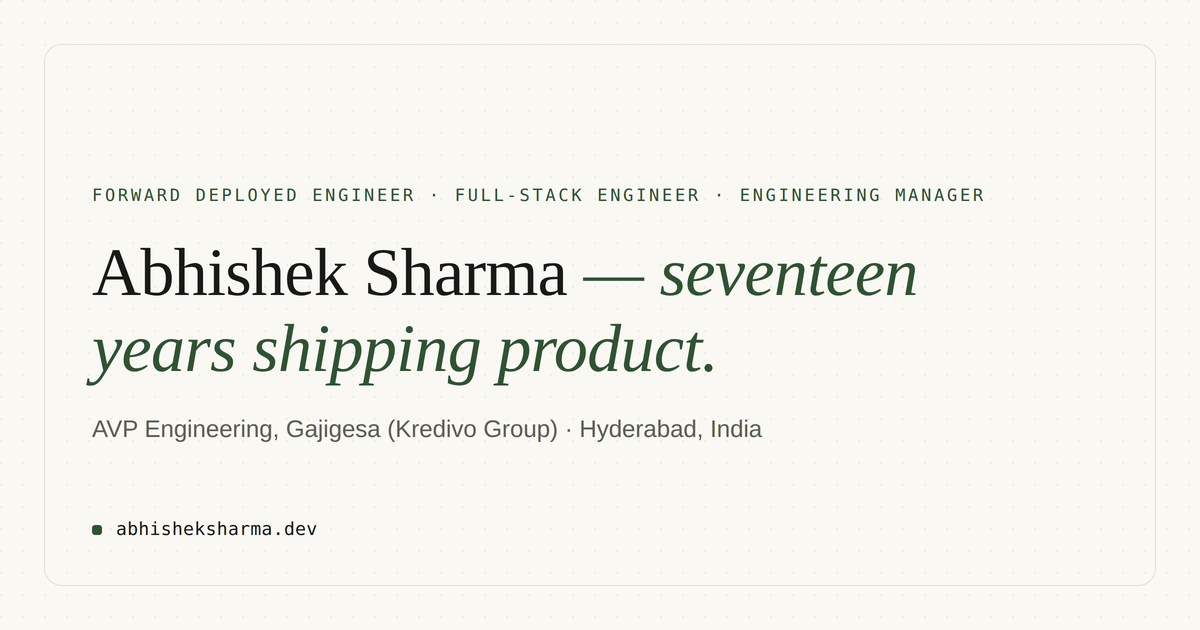
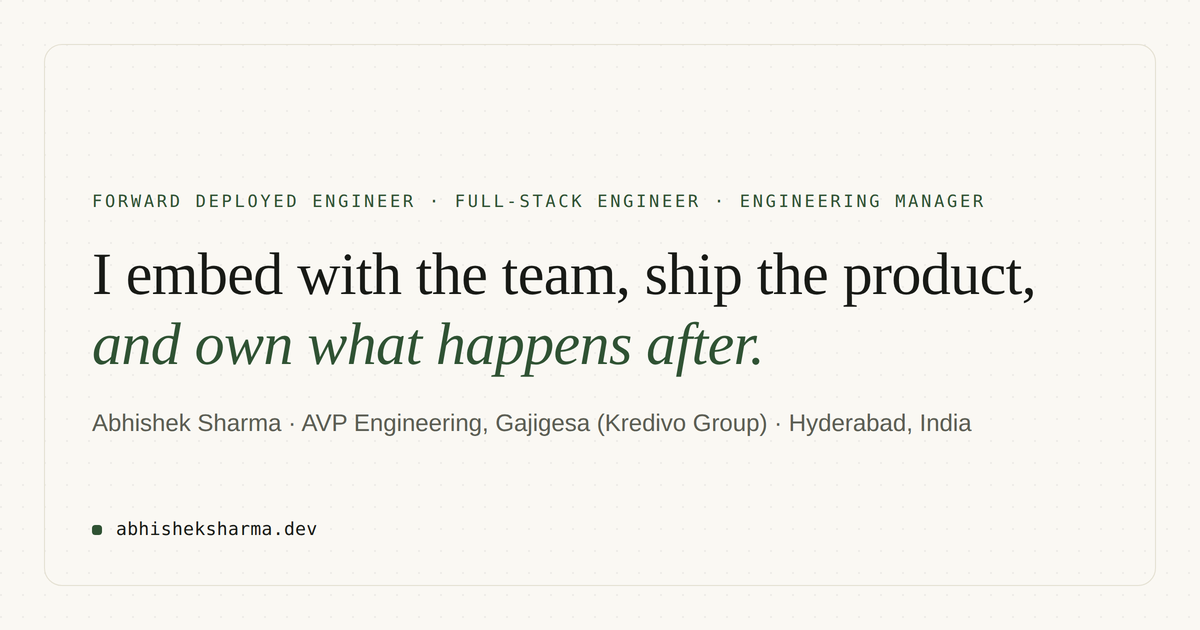
Lead with forward-deployed positioning, drop years-based framing
Replaces the hero's "17+ years" stat and 2008-2025 stack-evolution
timeline with a client-roster band (Gajigesa, KFC, Kohl's, Tractor
Supply, Wallenius Wilhelmsen, HUL) that gives concrete evidence for the
forward-deployed-engineer story instead of leaning on tenure. Rewrites
the hero paragraph and Experience intro to match, and updates the SEO
description and OG image to drop the "seventeen years" phrasing.

diff --git a/lib/content.js b/lib/content.js
@@ -12,7 +12,7 @@ export const site = {
   linkedin: "https://www.linkedin.com/in/abhishekmca",
   github: "https://github.com/abhishek1504",
   description:
-    "Abhishek Sharma is a Hyderabad-based engineering leader with 17+ years shipping production software for KFC, Kohl's, Tractor Supply, and Gajigesa (Kredivo Group). Forward deployed engineer, full-stack developer, and AVP of Engineering specializing in fintech, mobile, and applied AI.",
+    "Abhishek Sharma is a Hyderabad-based Forward Deployed Engineer, Full-Stack Engineer, and Engineering Manager — embedded inside client engineering teams at KFC, Kohl's, Tractor Supply, and Wallenius Wilhelmsen, now leading engineering at Gajigesa (Kredivo Group). Specializing in fintech, mobile, and applied AI.",
   keywords: [
     "Abhishek Sharma",
     "Forward Deployed Engineer",
@@ -36,10 +36,10 @@ export const site = {
 };
 
 export const stats = [
-  { num: "17+", label: "Years building & shipping software" },
-  { num: "8", label: "Enterprise brands shipped to production" },
+  { num: "6", label: "Client engineering teams I've embedded with" },
   { num: "25K", label: "Monthly active users on my current platform" },
   { num: "99.5%", label: "Crash-free sessions, sustained" },
+  { num: "0.9", label: "Apdex score achieved" },
 ];
 
 export const pillars = [
@@ -60,14 +60,15 @@ export const pillars = [
   },
 ];
 
-export const evolution = [
-  { year: "2008", tech: "Delphi & Firebird" },
-  { year: "2011", tech: "iOS · Delphi Prism" },
-  { year: "2013", tech: "Objective-C → Titanium" },
-  { year: "2016", tech: "Kotlin · Native Android" },
-  { year: "2018", tech: "React · React Native" },
-  { year: "2022", tech: "Node.js · AWS · CI/CD" },
-  { year: "2025", tech: "Generative & Agentic AI" },
+// Client organizations I've been embedded inside of — the concrete evidence
+// for the "forward deployed engineer" positioning in the hero.
+export const embeddedWith = [
+  { name: "Gajigesa · Kredivo Group", role: "AVP Engineering — current" },
+  { name: "KFC", role: "Multi-tenant app · India & Australia" },
+  { name: "Kohl's", role: "Zebra OEM inventory app" },
+  { name: "Tractor Supply Co.", role: "Consumer shopping app" },
+  { name: "Wallenius Wilhelmsen", role: "Driver delivery app" },
+  { name: "Hindustan Unilever", role: "Payroll, 80 business units" },
 ];
 
 export const brands = [

diff --git a/components/Hero.jsx b/components/Hero.jsx
@@ -1,4 +1,4 @@
-import { evolution, site, stats } from "../lib/content";
+import { embeddedWith, site, stats } from "../lib/content";
 
 export default function Hero() {
   return (
@@ -11,9 +11,10 @@ export default function Hero() {
           <em className="italic text-accent">and own what happens after.</em>
         </h1>
         <p className="mt-7 max-w-xl text-[17px] leading-relaxed text-slate">
-          I&apos;m {site.name}. Seventeen years turning ambiguous requirements
-          into shipped software — inside enterprise clients like KFC, Kohl&apos;s,
-          and Tractor Supply, and now leading engineering end-to-end at a
+          I&apos;m {site.name}. I embed inside client engineering teams and
+          ship production software on their timeline — not mine.
+          I&apos;ve done it for KFC, Kohl&apos;s, Tractor Supply, and
+          Wallenius Wilhelmsen, and today I run engineering end-to-end at a
           consumer fintech platform serving 25,000+ monthly users.
         </p>
 
@@ -26,17 +27,17 @@ export default function Hero() {
           </a>
         </div>
 
-        {/* Stack evolution timeline */}
+        {/* Embedded with — forward deployed evidence */}
         <div className="mt-16">
           <div className="mb-4 font-mono text-[11px] uppercase tracking-[0.14em] text-slate">
-            One career, seven stacks — I learn whatever the product needs
+            Embedded inside the client&apos;s team — not consulting from outside
           </div>
           <div className="flex gap-8 overflow-x-auto pb-2">
-            {evolution.map(({ year, tech }) => (
-              <div key={year} className="flex min-w-[128px] flex-col gap-2 border-l border-line pl-4">
+            {embeddedWith.map(({ name, role }) => (
+              <div key={name} className="flex min-w-[168px] flex-col gap-2 border-l border-line pl-4">
                 <div className="h-1.5 w-1.5 -ml-[19px] rounded-full bg-accent" />
-                <div className="font-mono text-xs text-slate">{year}</div>
-                <div className="font-display text-sm text-ink">{tech}</div>
+                <div className="font-display text-sm text-ink">{name}</div>
+                <div className="font-mono text-[11px] text-slate">{role}</div>
               </div>
             ))}
           </div>

diff --git a/components/Experience.jsx b/components/Experience.jsx
@@ -9,9 +9,9 @@ export default function Experience() {
           Experience
         </h2>
         <p className="mt-5 max-w-xl text-[15.5px] leading-relaxed text-slate">
-          Seventeen years across fintech, e-commerce, retail, logistics, QSR,
-          and HR tech — from writing payroll engines to leading product and
-          engineering.
+          Embedded inside client engineering teams across fintech,
+          e-commerce, retail, logistics, QSR, and HR tech — from writing
+          payroll engines on-site to leading product and engineering.
         </p>
 
         {/* Brands */}
